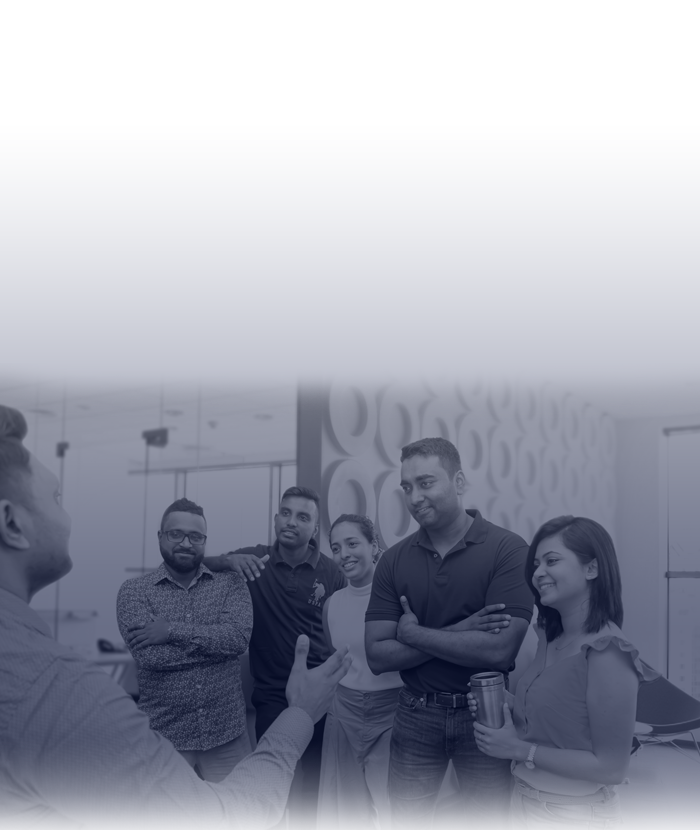
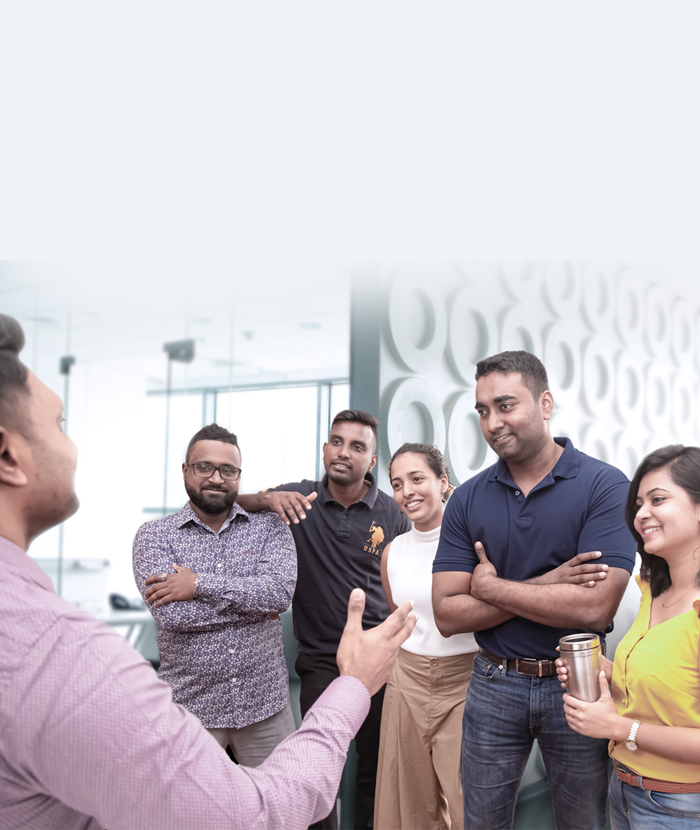
UI at career

diff --git a/resources/views/Career.blade.php b/resources/views/Career.blade.php
@@ -171,17 +171,17 @@
 <section>
     <!--End Header -->
     <?php
-    function isMobile()
-    {
+    function isMobile() {
         return preg_match("/(android|avantgo|blackberry|bolt|boost|cricket|docomo|fone|hiptop|mini|mobi|palm|phone|pie|tablet|up\.browser|up\.link|webos|wos)/i", $_SERVER["HTTP_USER_AGENT"]);
     }
     // Use the function
-    if (isMobile()) {
+    if(isMobile()){
 
-        echo '<section class="hero-section minimal-portfolio" data-background="images/shape/career-mobile.png" id="home">';
-    } else {
+        echo'<section class="hero-section minimal-portfolio" data-background="images/shape/bg-light.png" id="home">';
+    }
+    else {
 
-        echo '<section class="hero-section fl-career">';
+        echo'<section class="hero-section fl-career">';
     }
 
     ?>
@@ -193,18 +193,19 @@
                 <div class="col-lg-6 v-center">
                     <div class="header-heading">
 
-                        <?php if (isMobile()) {
+                        <?php if(isMobile()){
                             // Do something for only mobile users
-                            echo '<div class="wow fadeInUp " data-wow-delay=".2s">
-		<h1 class="wow fadeInUp"><span><font color="#000b3b" size="10px">Career and Culture</font></span></h1>
-		<h1><font color="#000b3b">at DirectPay</font></h1>
-		<p class="wow fadeInUp" ><font color="#fff">See how we grow and thrive together. A strong community and culture built around innovation. Join us and be a part of our family!</font><br><br></p>
+                            echo'<div class="wow fadeInUp " data-wow-delay=".2s">
+		<h1 class="wow fadeInUp"><span><font color="#96b7d8" size="14px">Career and culture at </font><font color="#a2a2a2" size="14px">DirectPay</font></span></h1>
+
+
 		</div>';
-                        } else {
-                            echo '<div class="wow fadeInUp" data-wow-delay=".2s">
-		<h2 class="wow fadeInUp" ><span><font color="#fff">Career and Culture</font></span></h2>
-		<h2><font color="#fff">at DirectPay</font></h2>
-		<p class="wow fadeInUp" ><font color="#fff" size="3px">See how we grow and thrive together. A strong community and culture built around innovation. Join us and be a part of our family!</font></p>
+                        }
+                        else{
+                            echo'<div class="wow fadeInUp" data-wow-delay=".2s">
+		<h1 class="wow fadeInUp" ><span><font color="#cfcfcf">Career and culture at DirectPay</font></span></h1>
+
+
 		</div>';
 
                         }
@@ -212,11 +213,16 @@
                         ?>
 
 
-                    </div>
-                    <a href="#jobs" class="btn-main bg-btn2 lnk mt30"> View Opening <i
-                            class="fas fa-chevron-right fa-icon"></i><span class="circle"></span></a>
-                </div>
 
+
+
+
+
+
+
+                    </div>
+                </div>
+                <div class="col-lg-6 wow fadeIn" data-wow-delay=".4s"><div class="single-image"><img src="images/hero/career-mobile.png" alt="service" class="img-fluid showin-mobile"/></div></div>
             </div>
         </div>
     </div>
@@ -245,6 +251,7 @@
         <div class="row justify-content-center">
             <div class="col-lg-8">
                 <div class="common-heading ptag">
+                    <p class="wow fadeInUp" ><font color="#373737">See how we grow and thrive together. A strong community and culture built around innovation. Join us and be a part of our family!</font><br><br></p>
                     <h2>Current Openings</h2>
                     <p class="mb60">30 Jan 2021 Latest Jobs</p>
                 </div>
